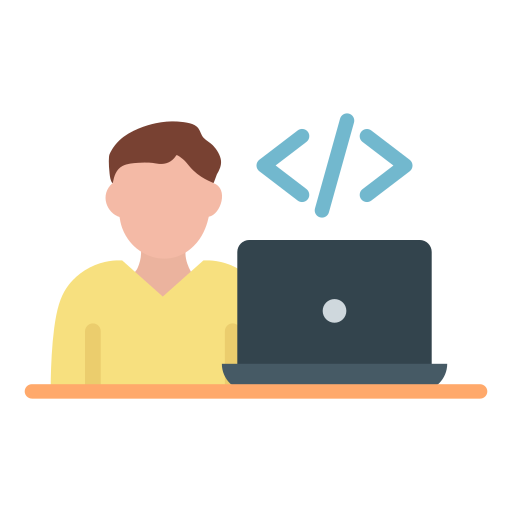
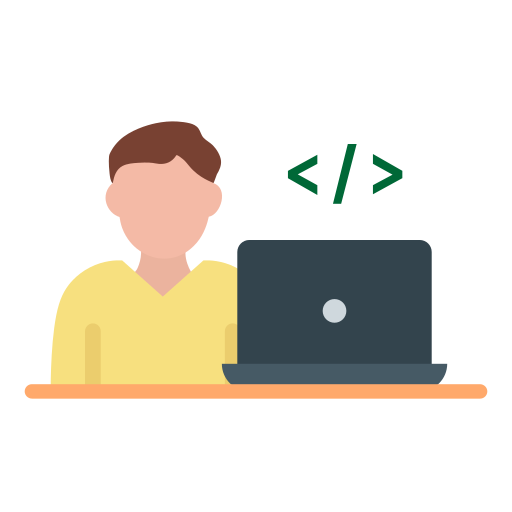
style: adapter style to open3cl colors

Changed region(s): [[0.5, 0.2188, 0.8125, 0.4375]]

diff --git a/src/static/styles/style.css b/src/static/styles/style.css
@@ -838,14 +838,19 @@ h1, h2, h3, h4, h5, h6 {
   background-color: currentColor;
 }
 
+/**
+#006837 --> 0 104 55
+#8CC63F
+ */
+
 .btn-custom {
   display: inline-block;
   border-radius: 5px;
   border-width: 2px;
   --tw-border-opacity: 1;
-  border-color: rgb(10 161 149 / var(--tw-border-opacity));
+  border-color: rgb(0 104 55 / var(--tw-border-opacity));
   --tw-bg-opacity: 1;
-  background-color: rgb(10 161 149 / var(--tw-bg-opacity));
+  background-color: rgb(0 104 55 / var(--tw-bg-opacity));
   padding-top: 0.75rem;
   padding-bottom: 0.75rem;
   padding-left: 26px;
@@ -860,9 +865,11 @@ h1, h2, h3, h4, h5, h6 {
 
 .btn-custom:hover {
   --tw-border-opacity: 1;
-  border-color: rgb(7 137 126 / var(--tw-border-opacity));
+  border-color: rgb(0 69 36 / var(--tw-border-opacity));
   --tw-bg-opacity: 1;
-  background-color: rgb(7 137 126 / var(--tw-bg-opacity));
+  background-color: rgb(0 69 36 / var(--tw-bg-opacity));
+  text-decoration: inherit;
+  color: rgb(255 255 255 / var(--tw-text-opacity));
 }
 
 .btn-custom:focus {
@@ -874,8 +881,8 @@ h1, h2, h3, h4, h5, h6 {
   display: inline-block;
   border-radius: 30px;
   border-width: 2px;
-  border-color: rgb(10 161 149 / 0.001);
-  background-color: rgb(10 161 149 / 0.1);
+  border-color: rgb(0 104 55 / 0.001);
+  background-color: rgb(0 104 55 / 0.1);
   padding-top: 0.75rem;
   padding-bottom: 0.75rem;
   padding-left: 26px;
@@ -884,7 +891,7 @@ h1, h2, h3, h4, h5, h6 {
   text-transform: capitalize;
   letter-spacing: 1px;
   --tw-text-opacity: 1;
-  color: rgb(10 161 149 / var(--tw-text-opacity));
+  color: rgb(0 104 55 / var(--tw-text-opacity));
   transition-duration: 150ms;
 }
 
@@ -892,9 +899,9 @@ h1, h2, h3, h4, h5, h6 {
   --tw-translate-y: -3px;
   transform: translate(var(--tw-translate-x), var(--tw-translate-y)) rotate(var(--tw-rotate)) skewX(var(--tw-skew-x)) skewY(var(--tw-skew-y)) scaleX(var(--tw-scale-x)) scaleY(var(--tw-scale-y));
   --tw-border-opacity: 1;
-  border-color: rgb(10 161 149 / var(--tw-border-opacity));
+  border-color: rgb(0 104 55 / var(--tw-border-opacity));
   --tw-bg-opacity: 1;
-  background-color: rgb(10 161 149 / var(--tw-bg-opacity));
+  background-color: rgb(0 104 55 / var(--tw-bg-opacity));
   --tw-text-opacity: 1;
   color: rgb(255 255 255 / var(--tw-text-opacity));
   --tw-shadow: 0 4px 11px rgba(10,161,149,0.1);
@@ -923,7 +930,7 @@ h1, h2, h3, h4, h5, h6 {
   text-transform: capitalize;
   letter-spacing: 1px;
   --tw-text-opacity: 1;
-  color: rgb(10 161 149 / var(--tw-text-opacity));
+  color: rgb(0 104 55 / var(--tw-text-opacity));
   transition-duration: 150ms;
 }
 
@@ -963,9 +970,9 @@ h1, h2, h3, h4, h5, h6 {
 
 .active-price-tab {
   --tw-border-opacity: 1 !important;
-  border-color: rgb(10 161 149 / var(--tw-border-opacity)) !important;
+  border-color: rgb(0 104 55 / var(--tw-border-opacity)) !important;
   --tw-bg-opacity: 1 !important;
-  background-color: rgb(10 161 149 / var(--tw-bg-opacity)) !important;
+  background-color: rgb(0 104 55 / var(--tw-bg-opacity)) !important;
   --tw-text-opacity: 1 !important;
   color: rgb(255 255 255 / var(--tw-text-opacity)) !important;
 }
@@ -1003,7 +1010,7 @@ button:focus {
   height: 0.375rem;
   width: 0.375rem;
   --tw-bg-opacity: 1 !important;
-  background-color: rgb(10 161 149 / var(--tw-bg-opacity)) !important;
+  background-color: rgb(0 104 55 / var(--tw-bg-opacity)) !important;
 }
 
 .client-sec .swiper-pagination-bullet-active,.client-center .swiper-pagination-bullet-active {
@@ -1011,7 +1018,7 @@ button:focus {
   width: 1.25rem;
   border-radius: 0.5rem;
   --tw-bg-opacity: 1 !important;
-  background-color: rgb(10 161 149 / var(--tw-bg-opacity)) !important;
+  background-color: rgb(0 104 55 / var(--tw-bg-opacity)) !important;
 }
 
 .fixed {
@@ -1943,7 +1950,7 @@ button:focus {
 
 .border-custom {
   --tw-border-opacity: 1;
-  border-color: rgb(10 161 149 / var(--tw-border-opacity));
+  border-color: rgb(0 104 55 / var(--tw-border-opacity));
 }
 
 .\!border-\[\#ced4da\] {
@@ -2004,7 +2011,7 @@ button:focus {
 }
 
 .border-custom\/10 {
-  border-color: rgb(10 161 149 / 0.1);
+  border-color: rgb(0 104 55 / 0.1);
 }
 
 .border-\[\#eaeaea\] {
@@ -2024,7 +2031,7 @@ button:focus {
 
 .bg-custom {
   --tw-bg-opacity: 1;
-  background-color: rgb(10 161 149 / var(--tw-bg-opacity));
+  background-color: rgb(0 104 55 / var(--tw-bg-opacity));
 }
 
 .bg-\[\#dff1f0\] {
@@ -2032,8 +2039,23 @@ button:focus {
   background-color: rgb(223 241 240 / var(--tw-bg-opacity));
 }
 
+.bg-primary {
+  --tw-bg-opacity: 1;
+  background-color: #006837;
+}
+
+.bg-secondary {
+  --tw-bg-opacity: 1;
+  background-color: #8CC63F;
+}
+
+.bg-primary {
+  --tw-bg-opacity: 1;
+  background-color: #006837;
+}
+
 .bg-custom\/20 {
-  background-color: rgb(10 161 149 / 0.2);
+  background-color: rgb(0 104 55 / 0.2);
 }
 
 .bg-\[\#e7e7e7\] {
@@ -2079,7 +2101,7 @@ button:focus {
 }
 
 .bg-custom\/\[0\.15\] {
-  background-color: rgb(10 161 149 / 0.15);
+  background-color: rgb(0 104 55 / 0.15);
 }
 
 .bg-light {
@@ -2114,11 +2136,11 @@ button:focus {
 }
 
 .bg-custom\/\[0\.07\] {
-  background-color: rgb(10 161 149 / 0.07);
+  background-color: rgb(0 104 55 / 0.07);
 }
 
 .bg-custom\/\[17\%\] {
-  background-color: rgb(10 161 149 / 17%);
+  background-color: rgb(0 104 55 / 17%);
 }
 
 .bg-\[\#0d0f14\]\/25 {
@@ -2154,10 +2176,6 @@ button:focus {
   background-image: url('../images/home_sec_layer-2.png');
 }
 
-.bg-\[url\(\'\.\.\/images\/home_sec_features\.jpg\'\)\] {
-  background-image: url('../images/home_sec_features.jpg');
-}
-
 .bg-gradient-to-r {
   background-image: linear-gradient(to right, var(--tw-gradient-stops));
 }
@@ -2189,7 +2207,7 @@ button:focus {
 }
 
 .to-custom\/20 {
-  --tw-gradient-to: rgb(10 161 149 / 0.2);
+  --tw-gradient-to: rgb(0 104 55 / 0.2);
 }
 
 .bg-cover {
@@ -2752,7 +2770,7 @@ button:focus {
 
 .text-custom {
   --tw-text-opacity: 1;
-  color: rgb(10 161 149 / var(--tw-text-opacity));
+  color: rgb(0 104 55 / var(--tw-text-opacity));
 }
 
 .text-white {
@@ -3130,12 +3148,12 @@ header {
 .horizontal-nav .horizontal-menu > li.active > a,
     .horizontal-nav .horizontal-menu > li > a:hover,
     .horizontal-nav .horizontal-menu > li > a:focus {
-  color: #0aa195;
+  color: rgb(0 104 55);
   background-color: transparent;
 }
 
 .active{
-  color: #0aa195 !important;
+  color: rgb(0 104 55) !important;
 }
 
 .horizontal-nav .horizontal-menu > li.active > a img,
@@ -3179,7 +3197,7 @@ header {
 .horizontal-nav .horizontal-menu .dropdown-menu li.active > a,
     .horizontal-nav .horizontal-menu .dropdown-menu li > a:hover,
     .horizontal-nav .horizontal-menu .dropdown-menu li > a:focus {
-  color: #0aa195;
+  color: rgb(0 104 55);
 }
 
 .horizontal-nav .horizontal-menu .dropdown-toggle:focus {
@@ -3599,7 +3617,7 @@ header {
 
 .hover\:text-custom:hover {
   --tw-text-opacity: 1;
-  color: rgb(10 161 149 / var(--tw-text-opacity));
+  color: rgb(0 104 55 / var(--tw-text-opacity));
 }
 
 .hover\:text-white:hover {
@@ -3609,12 +3627,12 @@ header {
 
 .focus\:\!border-custom:focus {
   --tw-border-opacity: 1 !important;
-  border-color: rgb(10 161 149 / var(--tw-border-opacity)) !important;
+  border-color: rgb(0 104 55 / var(--tw-border-opacity)) !important;
 }
 
 .focus\:border-custom:focus {
   --tw-border-opacity: 1;
-  border-color: rgb(10 161 149 / var(--tw-border-opacity));
+  border-color: rgb(0 104 55 / var(--tw-border-opacity));
 }
 
 .focus\:outline-none:focus {
@@ -3979,7 +3997,7 @@ header {
 
 .\[\&\>span\]\:bg-custom>span {
   --tw-bg-opacity: 1;
-  background-color: rgb(10 161 149 / var(--tw-bg-opacity));
+  background-color: rgb(0 104 55 / var(--tw-bg-opacity));
 }
 
 .\[\&\>span\]\:opacity-10>span {
@@ -3993,4 +4011,13 @@ ul.circle {
 
 .cover {
   object-fit: cover;
+}
+
+a {
+  color: rgb(0 104 55);
+}
+
+a:hover {
+  color: rgb(0 104 55 / var(--tw-bg-opacity));
+  text-decoration: underline;
 }

diff --git a/src/static/styles/background.css b/src/static/styles/background.css
@@ -1,7 +1,3 @@
 .background-home_sec_layer-2 {
     background-image: url('../images/home_sec_layer-2.png');
 }
-
-.background-home_sec_features {
-    background-image: url('../images/home_sec_features.jpg');
-}
